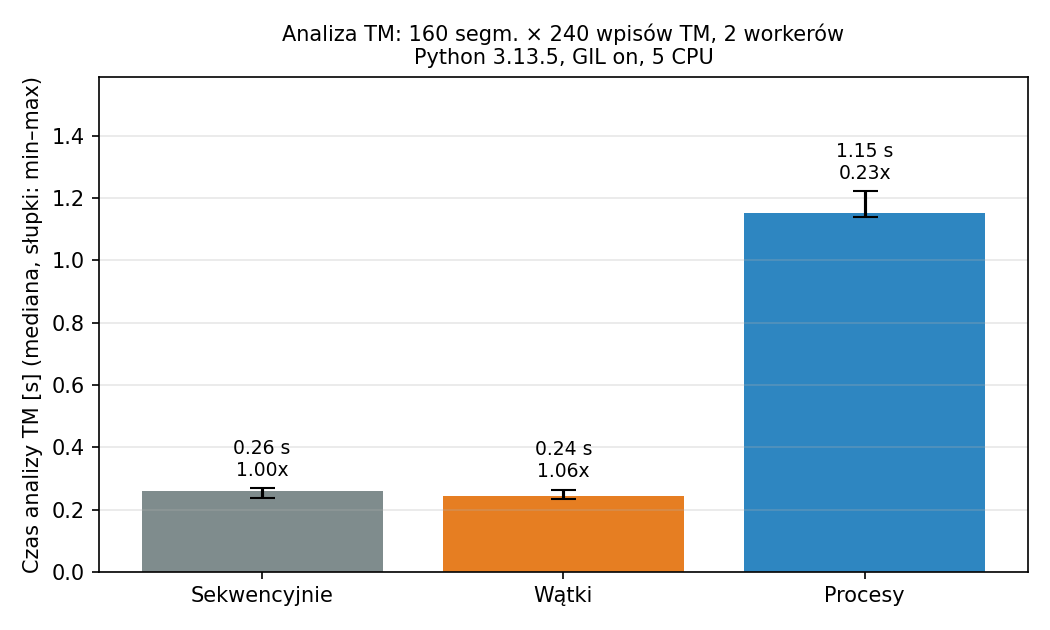
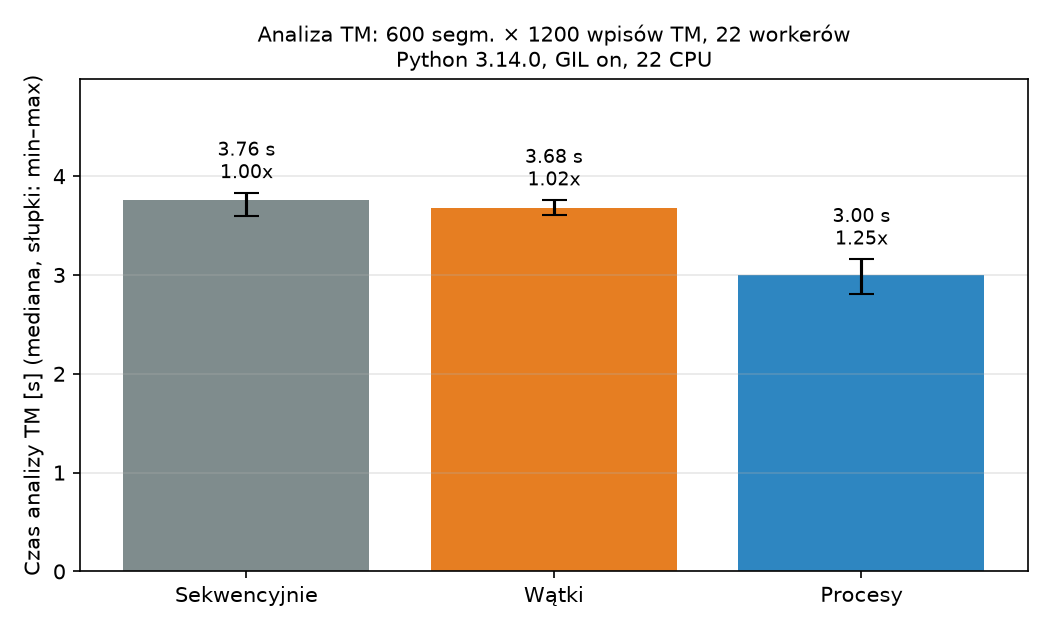
v1.1.1 Fix QA/TM

Changed region(s): [[0.0, 0.0302, 0.9752, 0.9651]]

diff --git a/docs/report.css b/docs/report.css
@@ -1,0 +1,18 @@
+@page { size: A4; margin: 18mm 17mm 17mm 17mm; @bottom-center { content: counter(page) ' / ' counter(pages); color: #66758b; font-size: 9pt; } }
+body { font-family: 'DejaVu Sans', sans-serif; font-size: 9.3pt; color: #18263b; line-height: 1.43; }
+h1 { font-size: 20pt; line-height: 1.18; color: #112748; font-weight: 750; padding-bottom: 12pt; border-bottom: 3pt solid #198d83; margin-bottom: 14pt; }
+h2 { color: #153c60; font-size: 12.6pt; margin-top: 20pt; margin-bottom: 7pt; border-bottom: 0.6pt solid #d5e3ef; padding-bottom: 4pt; page-break-after: avoid; }
+h3 { color: #21516f; font-size: 11pt; page-break-after: avoid; }
+p { margin-top: 4pt; margin-bottom: 8pt; }
+li { margin-bottom: 3pt; }
+ul { padding-left: 19pt; }
+code { font-family: 'DejaVu Sans Mono', monospace; font-size: 8.2pt; color: #136a67; }
+pre { font-size: 8pt; white-space: pre-wrap; border-left: 2pt solid #198d83; background: #f6f9fa; padding: 8pt; }
+table { border-collapse: collapse; width: 100%; margin-top: 9pt; margin-bottom: 10pt; font-size: 7.65pt; }
+th { background: #132c4c; color: #fff; text-align: left; font-weight: bold; }
+th, td { padding: 6pt 6pt; border: 0.5pt solid #c7d4e2; vertical-align: top; overflow-wrap: anywhere; }
+tr:nth-child(even) td { background: #f3f7fa; }
+tr { page-break-inside: avoid; }
+img { max-width: 90%; height: auto; display: block; margin: 12pt auto; }
+strong { font-weight: bold; }
+blockquote { border-left: 3pt solid #198d83; padding-left: 10pt; }

diff --git a/tests/test_patch_111_async_init.py b/tests/test_patch_111_async_init.py
@@ -1,0 +1,50 @@
+"""Regression for GameCAT 1.1 MainWindow missing asynchronous state."""
+from __future__ import annotations
+
+import ast
+from pathlib import Path
+
+
+GUI_FILE = Path(__file__).resolve().parents[1] / 'gamecat' / 'gui' / 'main_window.py'
+EXPECTED_DEFAULTS = {
+    '_closing': False,
+    '_tm_generation': 0,
+    '_qa_generation': 0,
+    '_quality_generation': 0,
+    '_content_generation': 0,
+    '_tm_future': None,
+    '_qa_future': None,
+    '_quality_future': None,
+    '_pending_qa_jump': None,
+}
+
+
+def test_main_window_initializes_all_async_fields_before_connecting_signals():
+    """A newly constructed window must support TM/QA updates and closing."""
+    module = ast.parse(GUI_FILE.read_text(encoding='utf-8'))
+    cls = next(n for n in module.body if isinstance(n, ast.ClassDef) and n.name == 'MainWindow')
+    constructor = next(n for n in cls.body if isinstance(n, ast.FunctionDef) and n.name == '__init__')
+
+    # Require unconditional assignments directly in __init__, not lazy initialization
+    # in one of the callbacks (which can fire during widget setup).
+    defaults = {}
+    for statement in constructor.body:
+        if not isinstance(statement, (ast.Assign, ast.AnnAssign)):
+            continue
+        targets = statement.targets if isinstance(statement, ast.Assign) else [statement.target]
+        for target in targets:
+            if isinstance(target, ast.Attribute) and isinstance(target.value, ast.Name) and target.value.id == 'self':
+                try:
+                    defaults[target.attr] = (ast.literal_eval(statement.value), statement.lineno)
+                except (ValueError, TypeError, SyntaxError):
+                    pass
+
+    for field, expected in EXPECTED_DEFAULTS.items():
+        assert field in defaults, f'MainWindow.__init__ does not initialize {field}'
+        value, lineno = defaults[field]
+        assert value == expected, f'{field} should start as {expected!r}, got {value!r}'
+        assert lineno < next(
+            n.lineno for n in ast.walk(constructor)
+            if isinstance(n, ast.Call) and isinstance(n.func, ast.Attribute)
+            and n.func.attr == 'connect'
+        ), f'{field} is initialized after signal connections'

diff --git a/tests/test_patch_111_async_qt.py b/tests/test_patch_111_async_qt.py
@@ -1,0 +1,41 @@
+"""Integration regression for GameCAT TM threshold callback (requires PySide6)."""
+from __future__ import annotations
+
+import os
+
+import pytest
+
+os.environ.setdefault('QT_QPA_PLATFORM', 'offscreen')
+pytest.importorskip('PySide6.QtWidgets')
+
+from PySide6.QtWidgets import QApplication, QMessageBox
+
+from gamecat.gui.main_window import MainWindow
+from gamecat.models.segment import Segment
+from gamecat.services.project_service import ProjectService
+
+
+def test_changing_tm_threshold_does_not_crash_async_callbacks(tmp_path, monkeypatch):
+    app = QApplication.instance() or QApplication([])
+    window = MainWindow()
+    service = ProjectService(tmp_path / 'demo.sqlite')
+    try:
+        project = service.create_project('Demo', 'en', 'pl', 'txt')
+        segment = service.segments.create(Segment('Hello', 1, project_id=project.id))
+        window.current_project = project
+        window.project_service = service
+        window.segment_editor.set_segments([segment])
+        monkeypatch.setattr(
+            QMessageBox, 'warning',
+            lambda *_args: pytest.fail('Threshold change must not display an error'),
+        )
+        window.tm_panel.threshold_spin.setValue(87)
+        assert service.get_tm_threshold(project) == pytest.approx(0.87)
+        assert window._tm_generation > 0
+        assert window._qa_generation > 0
+        assert window._tm_future is not None
+    finally:
+        window.current_project = None
+        window.project_service = None
+        window.close()
+        service.close()

diff --git a/gamecat/gui/main_window.py b/gamecat/gui/main_window.py
@@ -44,6 +44,17 @@ class MainWindow(QMainWindow):
         self.project_path: Path | None = None
         self.project_service: ProjectService | None = None
         self._busy = False
+        # Async callbacks can fire as soon as widget signals are connected.
+        # Initialize every generation counter, future, and lifecycle flag first.
+        self._closing = False
+        self._tm_generation = 0
+        self._qa_generation = 0
+        self._quality_generation = 0
+        self._content_generation = 0
+        self._tm_future: Future | None = None
+        self._qa_future: Future | None = None
+        self._quality_future: Future | None = None
+        self._pending_qa_jump: tuple[bool, int | None] | None = None
         self._ai_executor = ThreadPoolExecutor(max_workers=1, thread_name_prefix='gamecat-openai')
         self._ai_cancel = Event()
         self._ai_running = False

diff --git a/README.md b/README.md
@@ -2,6 +2,12 @@
 
 GameCAT to desktopowy program CAT (Computer-Assisted Translation) do lokalizacji gier, przygotowany jako projekt zaliczeniowy z przedmiotu **Zaawansowane techniki programowania w języku Python**.
 
+### Poprawka 1.1.1 — inicjalizacja asynchronicznego GUI
+
+- Usunięto `AttributeError: 'MainWindow' object has no attribute '_tm_generation'` przy zmianie progu sugestii TM.
+- Inicjalizowane są liczniki generacji QA/TM/filtrów i zmiany treści, wskaźniki oczekujących zadań, flaga zamykania oraz stan nawigacji po błędach QA. Chroni to także wybór segmentu, skanowanie QA i zamykanie okna.
+- Nie zmieniono schematu SQLite ani konfiguracji TM/OpenAI. Szczegóły: [1.1.1](docs/releases/1.1.1.md).
+
 ### Nowości 1.1 — responsywność, architektura i kontekst
 
 - GUI korzysta z fasady `ProjectService`, zamiast bezpośrednio z repozytoriów segmentów/TM.
@@ -10,7 +16,7 @@ GameCAT to desktopowy program CAT (Computer-Assisted Translation) do lokalizacji
 - Edytowalne pole **Kontekst / komentarz** pod Target; `FormatProfile.comment_field` mapuje komentarze z CSV/TSV/XLSX/JSON/XML. Komentarze pozostają w SQLite i nie zmieniają statusu workflow.
 - [Pełny opis 1.1 i lista testów ręcznych](docs/releases/1.1.md).
 
-## Funkcje wersji 1.1.0
+## Funkcje wersji 1.1.1
 
 - projekty tłumaczeniowe i segmenty Source/Target,
 - wyszukiwanie Source/Target z regex i sortowaniem, filtry QA/TM, podgląd masowej zamiany Target oraz nawigacja do braków/QA,
@@ -107,6 +113,14 @@ Wydanie poprawkowe zgodne z bazami SQLite 1.0.0 (bez migracji schematu):
 
 Zobacz [notatki wydania 1.0.1](docs/releases/1.0.1.md).
 
+## Wydanie 1.0 — materiały zaliczeniowe
+
+- [Raport projektu](docs/project_report.md) — architektura, wymagania, testy, GIL, ograniczenia.
+- [Plan 10-minutowej obrony](docs/defense_10min.md) — scenariusz demonstracji i pytania.
+- [Testy ręczne GUI](docs/gui_acceptance_checklist.md) — czynności do sprawdzenia na komputerze z PySide6.
+- [Instrukcja przekazania projektu na Moodle](docs/moodle_submission.md) — repozytorium musi zostać opublikowane przez właściciela.
+- [Informacje o wydaniu](docs/releases/1.0.md) — zmiany i znane ograniczenia.
+
 W ramach finalizacji poprawiono również bezpieczeństwo importu już przetłumaczonego pliku: nowy Target unieważnia poprzednie zatwierdzenie (`REVIEWED`/`APPROVED`), natomiast import identycznego tekstu nie odbiera statusu. Klucz OpenAI API nie należy do danych projektu.
 
 ## Nowości w wersji 0.11
@@ -164,6 +178,8 @@ Dane: 160 segmentów × 240 wpisów TM, 2 workerów, 3 powtórzeń (mediana), se
 ## Wnioski z benchmarku GIL
 
 Pomiar z wydania 1.0 dotyczy tej samej funkcji analizy Translation Memory dla trzech trybów: sekwencyjnego, `ThreadPoolExecutor` i `ProcessPoolExecutor`. Wszystkie tryby przeszły kontrolę identyczności wyników; wykonano rozgrzewkę i trzy rundy pomiarowe z rotacją kolejności. Dla 160 segmentów i 240 wpisów TM mediana wyniosła odpowiednio **0,260 s**, **0,244 s** i **1,152 s** (CPython 3.13.5, Linux, 2 workery). W tak małym zadaniu koszt uruchomienia procesów i przekazania danych jest większy od potencjalnego zysku; dlatego procesy osiągnęły tylko **0,23×** prędkości odniesienia. Minimalna różnica między wątkami a wykonaniem sekwencyjnym przy takich czasach nie dowodzi przyspieszenia pracy CPU przez wątki. Przy włączonym GIL w standardowym CPythonie jednocześnie wykonywać kod Pythona może tylko jeden wątek, więc do CPU-bound wybieramy procesy dopiero dla dostatecznie dużych zadań. **W pomiarze historycznym na Windows 11** z większym zestawem danych (600 × 1200) procesy osiągnęły **2,09×**, a wątki **1,00×**. Różnica nie jest sprzecznością: wydajność zależy od rozmiaru zadania, parametrów maszyny i narzutu komunikacji. Wątki w GameCAT pozostają właściwym wyborem dla I/O (import, eksport, autosave), a dla analizy TM aplikacja może wybrać procesy lub sekwencyjne wykonanie zależnie od wielkości projektu.
+
+Historyczne wyniki: [benchmark 0.5.1 / Windows](benchmarks/history_0.5.1_windows.md). Wynik 1.0: [tabela](benchmarks/results.md), [JSON](benchmarks/results.json), [wykres](benchmarks/gil_benchmark.png). Procedurę można powtórzyć komendą: `python benchmarks/gil_benchmark.py --segments 160 --tm 240 --repeats 3 --workers 2 --update-readme`. Większy zestaw jest opcjonalny i trwa dłużej.
 
 ## Problemy napotkane podczas realizacji
 

diff --git a/docs/releases/1.1.1.md b/docs/releases/1.1.1.md
@@ -1,0 +1,42 @@
+# GameCAT 1.1.1 — poprawka inicjalizacji asynchronicznego GUI
+
+**Baza:** GameCAT 1.1.0. **Schemat SQLite:** bez zmian; otwieranie istniejących projektów nie wymaga migracji.
+
+## Objawy i przyczyna
+
+Zmiana minimalnego podobieństwa w panelu Translation Memory powodowała wyjątek:
+
+```text
+AttributeError: 'MainWindow' object has no attribute '_tm_generation'
+```
+
+`MainWindow._update_current_tm()` inkrementuje licznik generacji do odrzucania nieaktualnych wyników workerów. W 1.1.0 konstruktor `MainWindow.__init__()` nie ustawiał tego licznika. Tak samo brakowało innych pól używanych przez asynchroniczne QA, filtrowanie, nawigację i `closeEvent`.
+
+## Poprawka
+
+Pola inicjalizowane bezwarunkowo **przed połączeniem sygnałów GUI**:
+
+| Pole | Wartość początkowa | Zastosowanie |
+| --- | --- | --- |
+| `_closing` | `False` | kontrola publikowania wyników i zamykania |
+| `_tm_generation`, `_qa_generation`, `_quality_generation`, `_content_generation` | `0` | odrzucanie nieaktualnych wyników i rozpoznawanie zmian |
+| `_tm_future`, `_qa_future`, `_quality_future` | `None` | anulowanie oczekujących zadań |
+| `_pending_qa_jump` | `None` | nawigacja do wyniku asynchronicznego filtra QA |
+
+Nie zmieniono zachowania wyszukiwania TM ani progu similarity; usunięto wyłącznie błąd inicjalizacji stanu i dodano testy regresyjne.
+
+## Testy
+
+- `tests/test_patch_111_async_init.py` — niezależny od Qt test regresyjny, który sprawdza inicjalizację i kolejność względem połączeń sygnałów.
+- `tests/test_patch_111_async_qt.py` — test integracyjny rzeczywistego GUI w trybie `QT_QPA_PLATFORM=offscreen` (wymaga PySide6).
+- Kompatybilność: istniejące testy async TM/QA i procesu zapisu.
+
+## Weryfikacja ręczna na Windows
+
+1. Otwórz projekt z segmentami i TM.
+2. W panelu **TM** zmień „Minimalne podobieństwo” np. z 45% na 85% i z powrotem. Nie powinien pojawić się komunikat błędu.
+3. Przechodź między segmentami; sugestie TM i panel QA powinny aktualizować się prawidłowo.
+4. Użyj filtra „Błędy QA”, uruchom pełny skan QA, zamknij program przy aktywnym projekcie; nie powinien wystąpić `AttributeError` związany z brakującymi polami.
+5. Otwórz bazę ponownie i sprawdź, czy próg TM został zapisany.
+
+**Ograniczenie:** bez PySide6 nie da się wykonać realnego testu GUI. Test AST nie zastępuje testu okienkowego.

diff --git a/benchmarks/results.md b/benchmarks/results.md
@@ -2,9 +2,9 @@
 
 | Tryb | Mediana [s] | Min [s] | Max [s] | Przyspieszenie |
 |---|---:|---:|---:|---:|
-| Sekwencyjnie | 0.260 | 0.237 | 0.269 | 1.00x |
-| Wątki | 0.244 | 0.233 | 0.264 | 1.06x |
-| Procesy | 1.152 | 1.139 | 1.223 | 0.23x |
+| Sekwencyjnie | 3.757 | 3.593 | 3.831 | 1.00x |
+| Wątki | 3.675 | 3.604 | 3.758 | 1.02x |
+| Procesy | 2.995 | 2.811 | 3.160 | 1.25x |
 
-Dane: 160 segmentów × 240 wpisów TM, 2 workerów, 3 powtórzeń (mediana), seed 2026.  
-Środowisko: Python 3.13.5 (CPython), Linux 6.18.55, 5 rdzeni logicznych, GIL włączony.
+Dane: 600 segmentów × 1200 wpisów TM, 22 workerów, 5 powtórzeń (mediana), seed 2026.  
+Środowisko: Python 3.14.0 (CPython), Windows 11, 22 rdzeni logicznych, GIL włączony.
